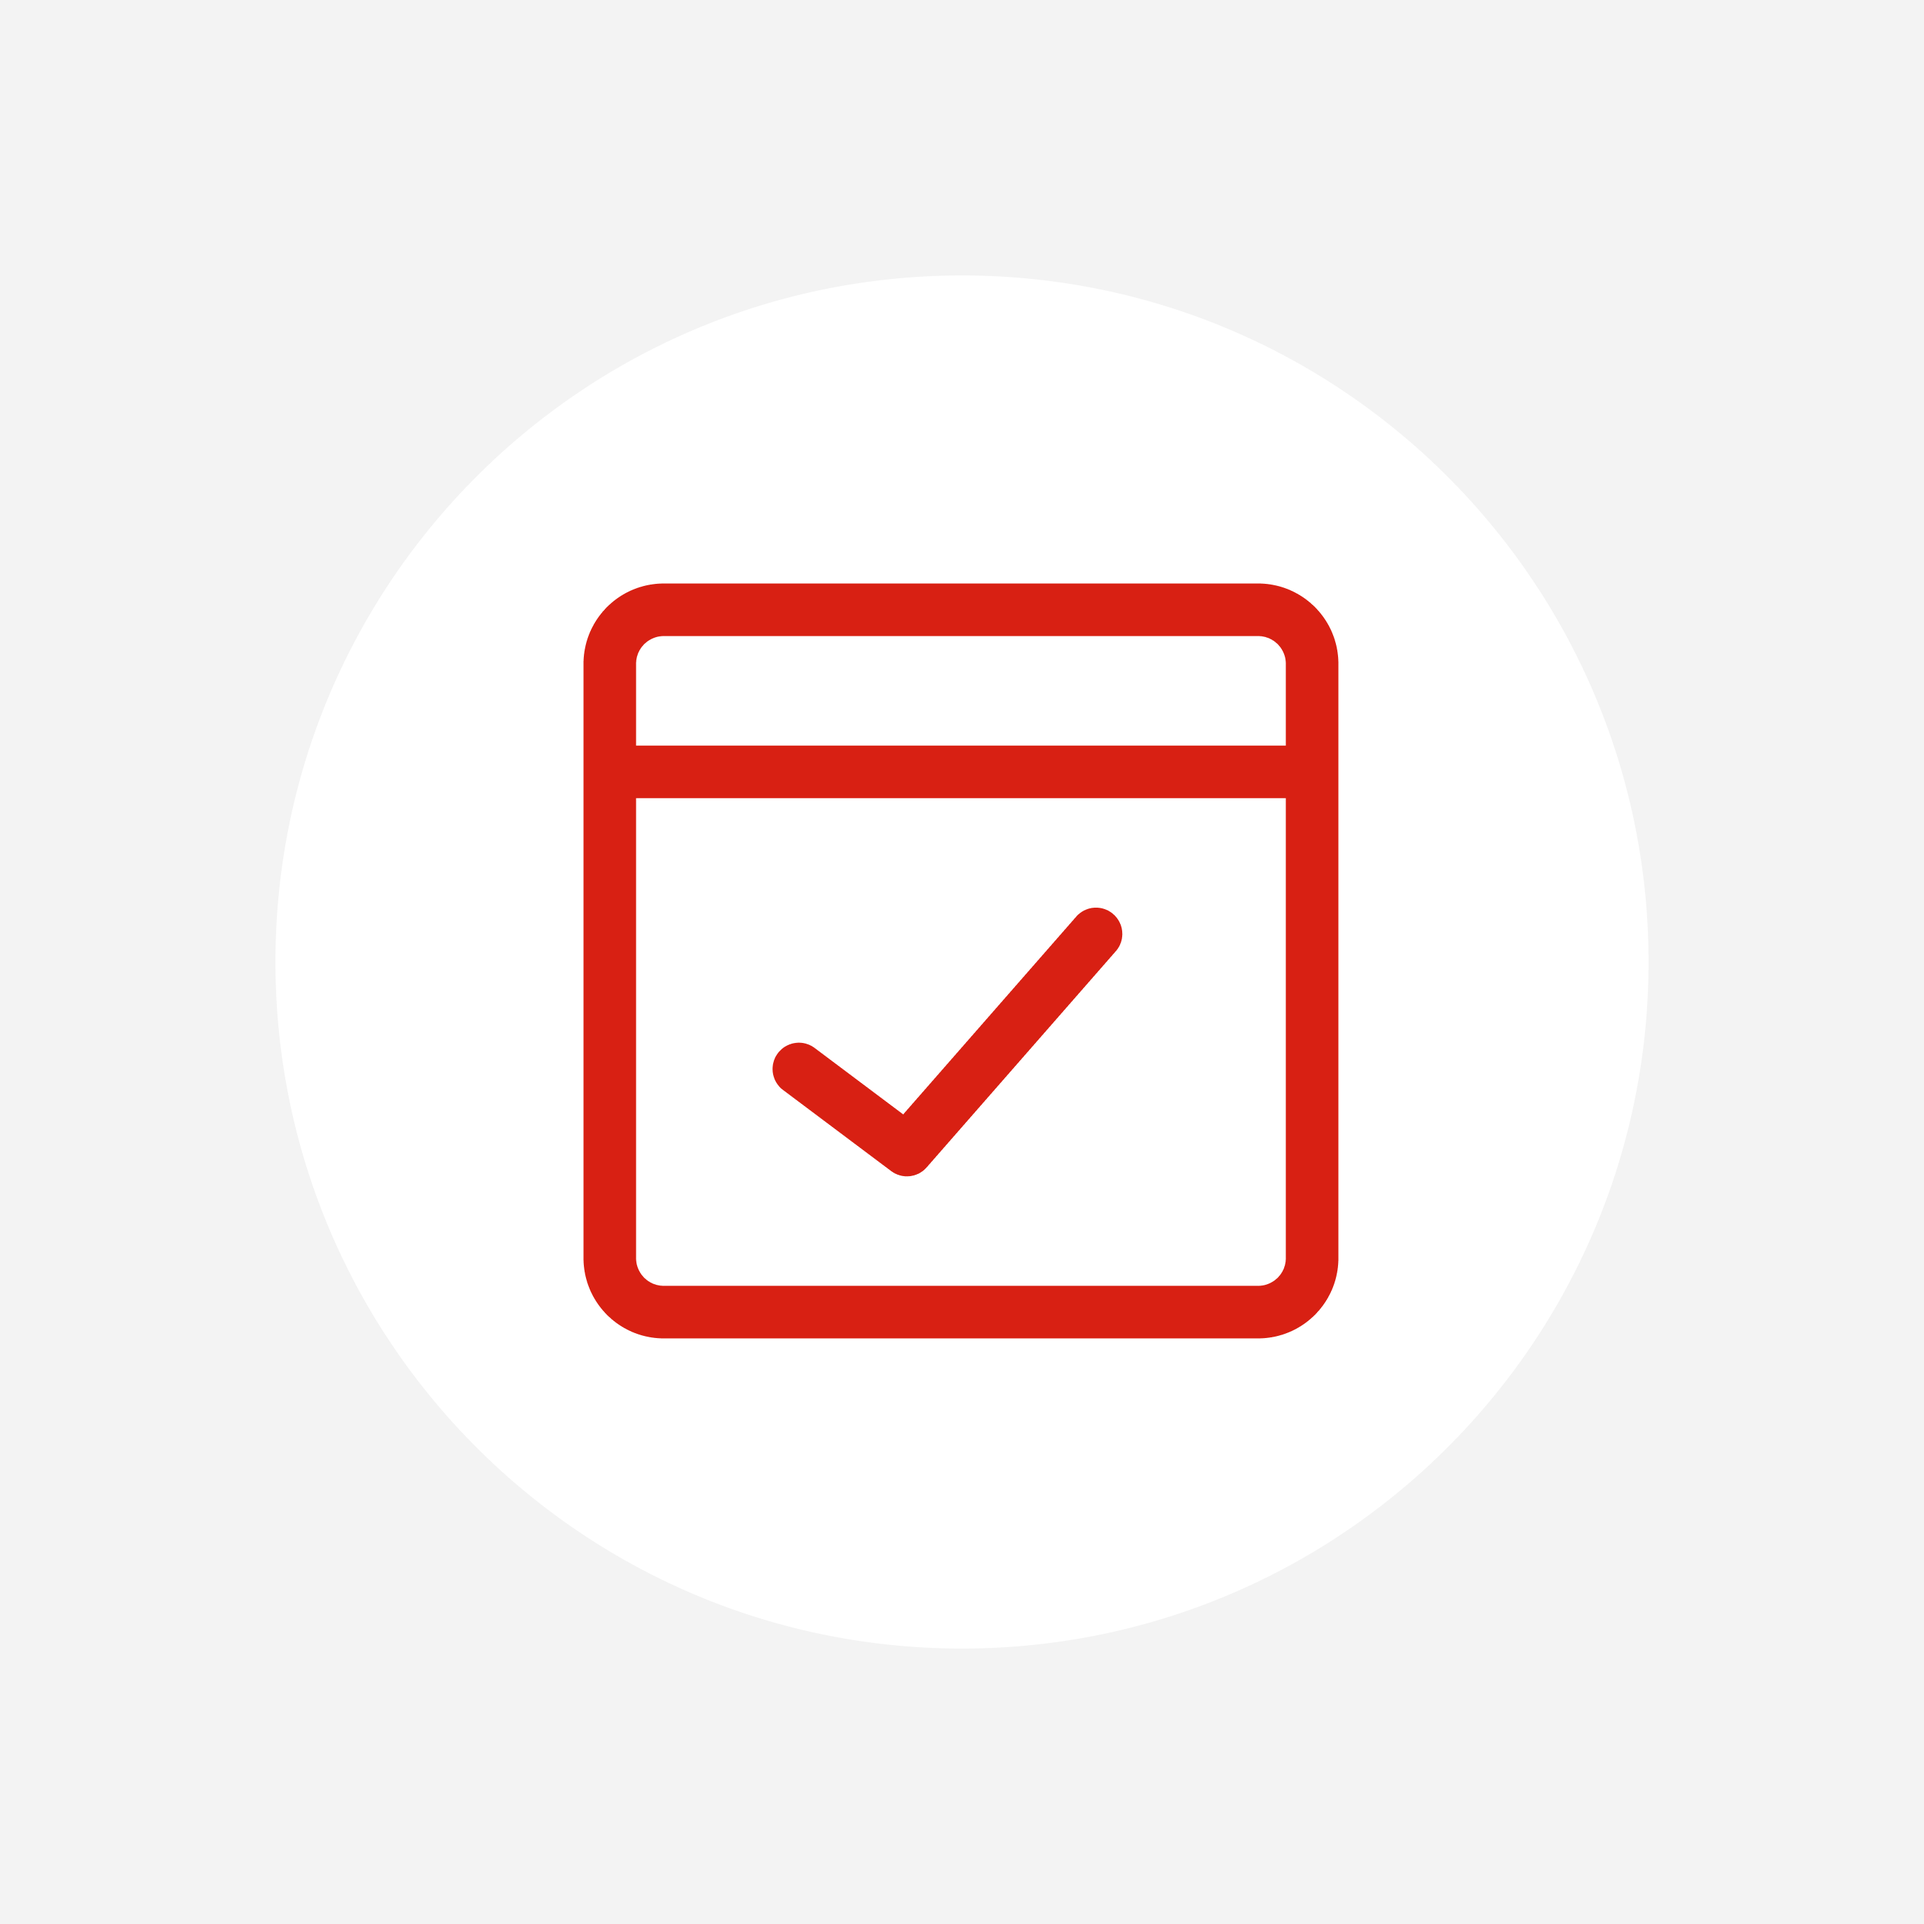
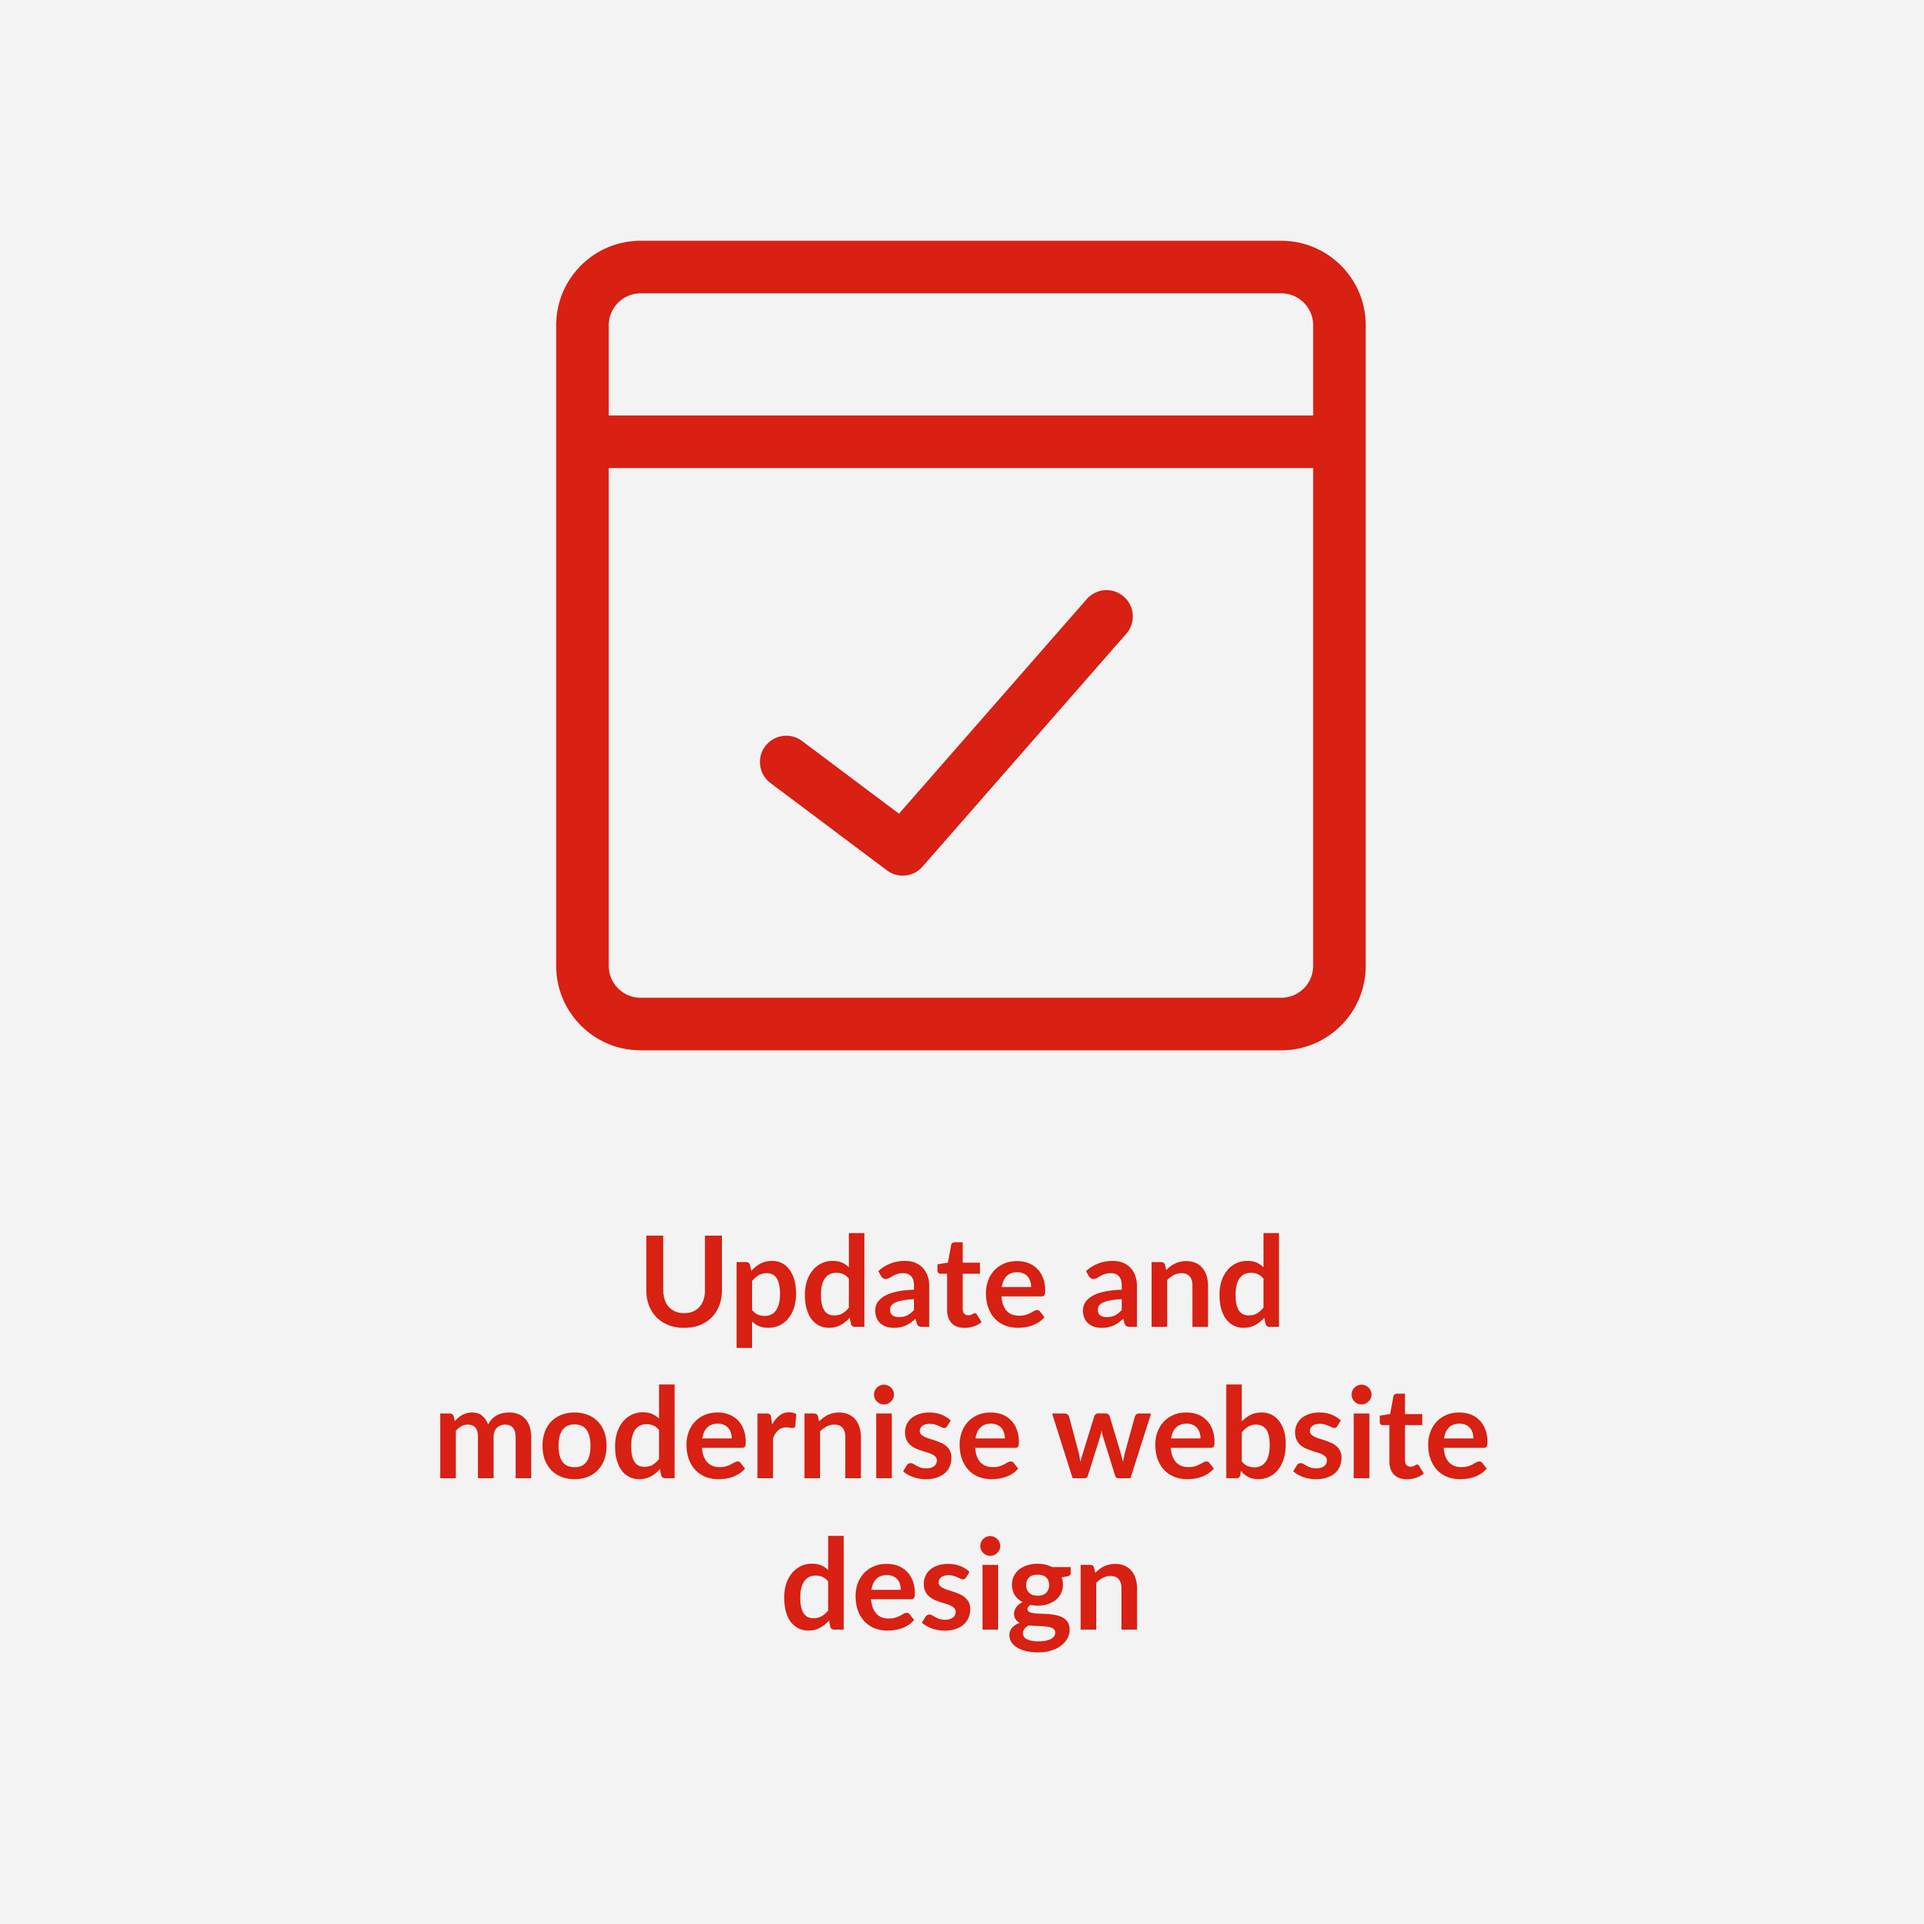
Change images
Created indivisual images for each feature instead of having  one single image - better viewing on mobile.

Changed region(s): [[0.2168, 0.1239, 0.7741, 0.7741], [0.4026, 0.8051, 0.5883, 0.867]]

diff --git a/defendher.html b/defendher.html
@@ -81,12 +81,45 @@
     <div class="detail-block">
       <h2>User research</h2>
       <p>Key insights discovered after speaking with 7 women who fit our target audience.</p>
-      <div class="placeholder-visual" style="background:transparent;min-height:0;"><img src="images/defendher-research.jpg" alt="DefendHER user research stats" style="width:100%;border-radius:var(--radius);display:block;"></div>
+      <div class="feature-grid">
+        <div class="feature-item">
+          <img src="images/defendher-research%201.png" alt="" class="feature-icon">
+        </div>
+        <div class="feature-item">
+          <img src="images/defendher-research%202.png" alt="" class="feature-icon">
+        </div>
+        <div class="feature-item">
+          <img src="images/defendher-research%203.png" alt="" class="feature-icon">
+        </div>
+        <div class="feature-item">
+          <img src="images/defendher-research%204.png" alt="" class="feature-icon">
+        </div>
+      </div>
+      
     </div>
     <div class="detail-block">
       <h2>Planning</h2>
-      <p>Key features we gathered in the planning stage of this project were:</p>
-      <div class="placeholder-visual" style="background:transparent;min-height:0;"><img src="images/defendher-planning.jpg" alt="DefendHER key features" style="width:100%;border-radius:var(--radius);display:block;"></div>
+      <p>After gathering findings, key features we created in the planning stage of this project.</p>
+      <div class="feature-grid">
+        <div class="feature-item">
+          <img src="images/defendher-alert-icon.png" alt="" class="feature-icon">
+        </div>
+        <div class="feature-item">
+          <img src="images/defendher-location-icon.png" alt="" class="feature-icon">
+        </div>
+        <div class="feature-item">
+          <img src="images/defendher-chat-icon.png" alt="" class="feature-icon">
+        </div>
+        <div class="feature-item">
+          <img src="images/defendher-safety-icon.png" alt="" class="feature-icon">
+        </div>
+        <div class="feature-item">
+          <img src="images/defendher-24hr-icon.png" alt="" class="feature-icon">
+        </div>
+        <div class="feature-item">
+          <img src="images/defendher-audio-icon.png" alt="" class="feature-icon">
+        </div>
+      </div>
     </div>
     <div class="detail-block">
       <div class="flow-grid">

diff --git a/hamwest.html b/hamwest.html
@@ -86,28 +86,36 @@
   
     <div class="detail-block">
       <h2>User research</h2>
-      <p>Key insights discovered after speaking with the school community, understanding what were common challenges.</p>
-      <div class="placeholder-visual" style="background:transparent;min-height:0;"><img src="images/hamwest-research.jpg" alt="Hamilton West School user research stats" style="width:100%;border-radius:var(--radius);display:block;"></div>
+      <p>Key insights discovered after speaking with the school community, understanding what were common challenges.</p><br>
+      <div class="feature-grid">
+  <div class="feature-item">
+    <img src="images/hamwest-usertesting-50.png" alt="" class="feature-icon">
+  </div>
+  <div class="feature-item">
+    <img src="images/hamwest-usertesting-75.png" alt="" class="feature-icon">
+  </div>
+  <div class="feature-item">
+    <img src="images/hamwest-usertesting-90.png" alt="" class="feature-icon">
+  </div>
+</div>
+    
     </div>
   
     <div class="detail-block">
       <h2>Key updates/changes</h2>
+      <p>Key updates/changes made based on user-research. The following were common foundings discovered after speaking with stakeholders</p><br>
       <div class="feature-grid">
   <div class="feature-item">
     <img src="images/hamwest-nav-icon.png" alt="" class="feature-icon">
-    <p class="feature-desc">Simplify navigation menu and group key sub-pages</p>
   </div>
   <div class="feature-item">
     <img src="images/hamwest-links-icon.png" alt="" class="feature-icon">
-    <p class="feature-desc">Create quick links on home page for faster access to important information</p>
   </div>
   <div class="feature-item">
     <img src="images/hamwest-structure-icon.png" alt="" class="feature-icon">
-    <p class="feature-desc">Structure pages and create clear sections to reduce overwhelm of text content</p>
   </div>
   <div class="feature-item">
     <img src="images/hamwest-modernise-icon.png" alt="" class="feature-icon">
-    <p class="feature-desc">Update and mondernise website design</p>
   </div>
 </div>
     </div>

diff --git a/style.css b/style.css
@@ -180,7 +180,7 @@
 
   .detail-block{padding:44px 0;border-bottom:1px solid var(--border);}
   .detail-block:last-of-type{border-bottom:none;}
-  .detail-block h2{font-size:clamp(19px, 1.6vw, 28px);margin-bottom:14px;}
+  .detail-block h2{font-size:clamp(1.6vw, 28px);margin-bottom:14px;}
   .detail-block p,
   .detail-block li,
   .accordion-body p{
@@ -340,11 +340,11 @@
 .feature-item {
   display: flex;
   flex-direction: column;
-  text-align: left;
+  text-align: center;
 }
 .feature-icon {
   width: 100%;
-  border-radius:var(--radius);
+  border-radius:50%;
 }
 .feature-desc {
   font-size: clamp(12px, 0.9vw, 15px);
@@ -367,6 +367,12 @@
 @media (max-width: 640px) {
   .feature-grid {
     grid-template-columns: 1fr;
+    align-content: center;
+    margin: auto;
+    width: 90%;
+  }
+  .feature-item {
+    margin-bottom: 50px;    
   }
 }
 
@@ -380,7 +386,7 @@
     .project-card{flex-direction:column;}
     .project-img{width:100%;min-height:160px;}
     .project-info{width:100%;}
-    nav{gap:16px;}
+    nav{gap:30\px;}
     .bio-grid{flex-direction:column;}
     .accordion-body{width:100%;}
     .wrap{width:90%;margin:0 auto;padding:0 28px;}
